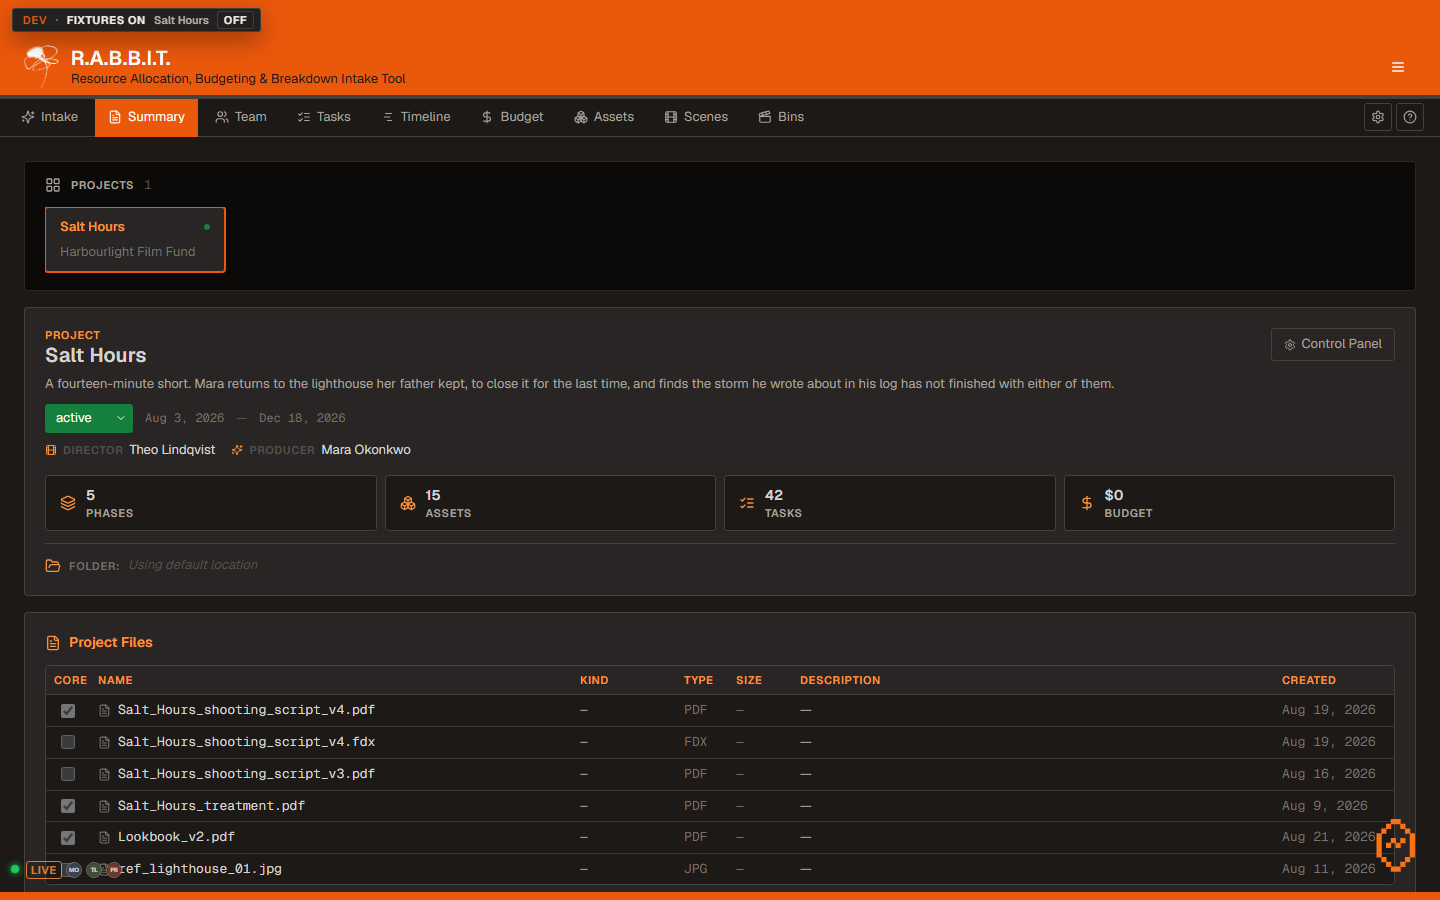
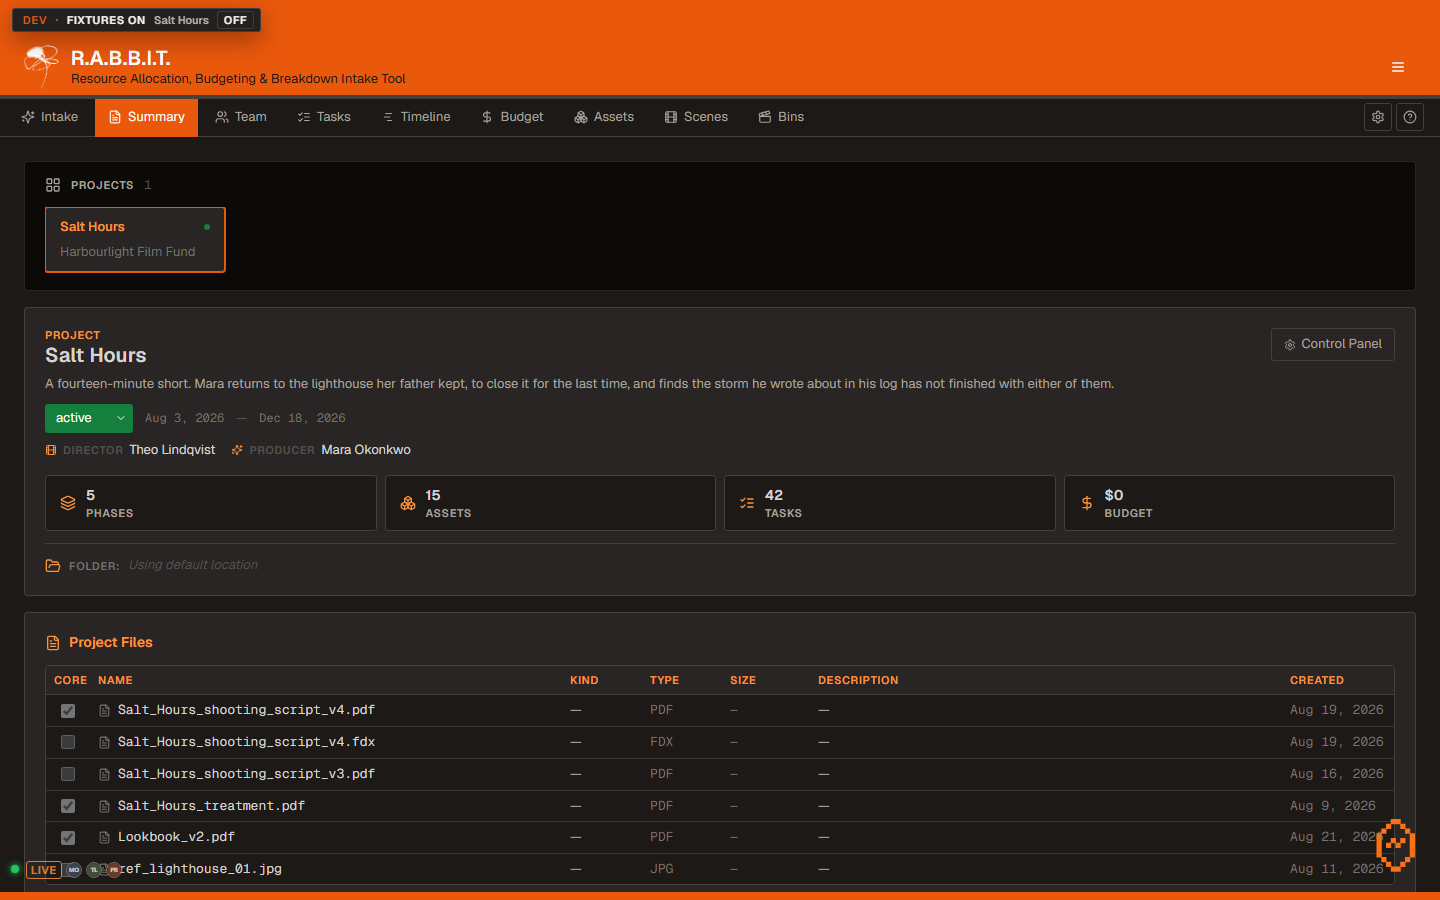
fix(t2): round two attacked round one's corrections and six of them broke
Round two re-measured every one of `ae241ed`'s 21 fixes. Seventeen findings,
four of them serious, and the pattern in all four is the same: round one
measured the FIXTURE and generalised from it.

## The four that were shipping a defect

🚨 **THE SIZE COLUMN COULD NOT RENDER A FILE SIZE, AND ROUND ONE'S OWN RULE
CONDEMNS IT.** `ae241ed` wrote "a type conversion that leaves a column unable
to render its own content is not finished" and then widened three columns and
missed a fourth that the same edit broke. `1023.9 KB` is 70.2px at 13px in the
mono against a 48px content box. It was invisible because every `size` in the
"Salt Hours" fixture is null and renders `—`. A reviewer uploaded a real 54.7
KB file and the cell reported `scrollWidth 71 > clientWidth 64` immediately.
`Type` is the same story one step milder — `MARKDOWN` and `FOUNTAIN` are both
in `ACCEPTED_EXTS` at 62.4px against a 36px box — and it was already truncating
before this session, which is precisely the standing this session gave the warm
Created column when it claimed it.

🚨 **`classifyMono` RETURNS DROP FOR TWO CELLS, NOT ONE.** Round one asked the
map per column, found Description, and stopped. Asked about all nine with their
real tag, run and body, it returns KEEP for seven and DROP for **Kind** as well
— "no data evidence", because the column's entire vocabulary is "treatment",
"lookbook", "pitch bible". Words.

🚨 **AND LEAVING KIND ON `cellClass` SPLIT ONE COLUMN BETWEEN TWO FAMILIES.**
[…]

diff --git a/WILSON/src/tools/rabbit_v0.1.0/components/ProjectFilesTable.jsx b/WILSON/src/tools/rabbit_v0.1.0/components/ProjectFilesTable.jsx
@@ -94,12 +94,12 @@ export default function ProjectFilesTable({
 
   /* ── variant-driven tokens ── */
   /* 🚨 UI overhaul, Wave 1 bundle T2 (2026-09-22). THIS FILE IS B4's (plan
-     §6.5) — it is drawn by Intake (`IntakePrepare.jsx:262`), by Summary twice
+     §6.5) — it is drawn by Intake (`IntakePrepare.jsx:277`), by Summary twice
      (`ProjectSummaryView.jsx:482` read-only and `:1163` through
      `ProjectFilesSection`) and by the Projects page's detail panel
      (`ProjectDetailPanel.jsx:335`) — and B4 converges it with the other file
-     tables onto `Table`. Wave 1's job here is the TYPE. Three column widths
-     below are NOT type and are marked where they are; each is here because
+     tables onto `Table`. Wave 1's job here is the TYPE. EIGHT column widths
+     below are NOT type and are marked where they are; each is there because
      the type change made the column unable to render its own content, and a
      conversion that leaves a column truncating is not finished.
 
@@ -123,13 +123,17 @@ export default function ProjectFilesTable({
      PER TABLE. `cellClass` carried `font-mono` for all nine cells on the
      argument that "a row is mostly figures, 4 columns to 2" — which is a hand
      aggregate the map does not compute. `classifyMono` judges ONE element's
-     body, and asked about each of the nine sites it returns KEEP for eight and
-     **DROP for the Description cell**: "renders a name or a message". That is
-     the widest column in the table and it holds user-typed prose, so the
-     mechanical reading shipped free text at 13px in Geist Mono — the exact
-     complaint §3.1 exists to fix. The Breakdown-row precedent round one wrote
-     was about ONE className governing six sibling columns; here each column
-     has its own, so each answers for itself. */
+     body, and asked about each of the nine sites with its real tag, run and
+     body it returns KEEP for seven and DROP for TWO: **Description** ("renders
+     a name or a message") and **Kind** ("no data evidence"). Those are the two
+     columns that hold words — the widest column in the table, holding
+     user-typed prose, and a column whose whole vocabulary is "treatment",
+     "lookbook", "pitch bible". The mechanical reading shipped both at 13px in
+     Geist Mono, which is the exact complaint §3.1 exists to fix.
+     The Breakdown-row precedent round one wrote was about ONE className
+     governing six sibling columns; here each column has its own, so each
+     answers for itself — and the first correction asked the map about only one
+     of the two. */
   const hdrClass = 'text-label uppercase'
   const hdr = {
     color: w ? '#3a1e08' : '#fb923c',
@@ -137,7 +141,16 @@ export default function ProjectFilesTable({
     whiteSpace: 'nowrap',
   }
   const cellClass = 'text-dense font-mono'
-  /* The one cell the mono map sends the other way. */
+  /* 🚨 TWO cells the mono map sends the other way, and the first correction
+     moved only one of them. Asked about each of the nine cells with its real
+     tag, run and body, `classifyMono` returns KEEP for seven and DROP for
+     **Kind** ("no data evidence") and **Description** ("renders a name or a
+     message"). Kind renders `f.document_kind.replace(/_/g, ' ')` — "pitch
+     bible", "treatment", "lookbook". Words.
+     Leaving Kind on `cellClass` also split one column between two faces: the
+     read-only branch inherited the mono from this wrapper while the editable
+     `<select>` below took `font-sans`, so the same string rendered in Geist on
+     Intake and in Geist Mono on Summary. */
   const proseCellClass = 'text-dense'
   /* 🚨 AND A FORM CONTROL INHERITS ITS PARENT'S FAMILY. Tailwind's preflight
      gives `select`/`input` `font: inherit`, so the two editable cells were
@@ -151,32 +164,66 @@ export default function ProjectFilesTable({
     padding: w ? '10px 14px' : '6px 8px',
     whiteSpace: 'nowrap', overflow: 'hidden', textOverflow: 'ellipsis',
   }
-  /* 🚨 THREE NUMBERS HERE ARE T2's AND THEY ARE THE ONLY NON-TYPE BYTES IN
+  /* 🚨 EIGHT NUMBERS HERE ARE T2's AND THEY ARE THE ONLY NON-TYPE BYTES IN
      THIS FILE. Taking the cells from 10px to the Dense step is what made each
-     necessary, and a type conversion that leaves a column unable to render its
-     own content is not finished.
+     necessary, and the rule is the same every time: a type conversion that
+     leaves a column unable to render its own content is not finished.
 
-       Created (dark)   80  -> 120     Kind (dark)   90 -> 104
-       Created (warm)   96  -> 120
+                    dark            warm
+       Kind         90  ->  80      100 ->  92     (it also went SANS — below)
+       Type         52  ->  80       60 ->  92
+       Size         64  ->  88       76 -> 100
+       Created      80  -> 112       96 -> 124
 
-     MEASURED in the browser, not eyeballed. Of the 230 cells the Summary tab
-     draws, exactly 32 overflowed at 80px and every one was a date —
-     `clientWidth` 80 against `scrollWidth` 110, so every row read "Aug 19,…".
-     Then a reviewer found two the first pass had not measured:
+     MEASURED in the browser at the cell's OWN family and 13px, against each
+     column's CONTENT box (its width less `cell`'s padding: 16px dark, 28px
+     warm), for the widest value the column can actually hold:
 
-       · `fmtDate` passes `undefined` as its locale, which means the BROWSER's.
-         "Aug 19, 2026" is 93.6px, but en-GB, en-AU and en-CA abbreviate
-         September as "Sept" and "Sept 19, 2026" is 101.4px — over a 112px
-         column's 96px content box. 120 clears it with room.
-       · `DOCUMENT_KINDS` contains `pitch_bible`, which renders as "pitch
-         bible": 85.8px against a 90px column's 74px content box. The fixture
-         has no such row, so nothing in the repo would have drawn it. 104.
+       Kind      `pitch bible`   61.8 sans   (85.8 in the mono — see below)
+       Type      `MARKDOWN`      62.4 mono   (ACCEPTED_EXTS has markdown, fountain)
+       Size      `1023.9 KB`     70.2 mono   (fmtBytes switches to MB above 1024 KB)
+       Created   `Sep 19, 2026`  93.6 mono   (en-*; see the locale note below)
 
-     ⚠ The WARM column moves too, and the earlier note here — "pre-existing,
-     untouched" — was wrong twice over: the warm cells kept 13px but changed
-     FAMILY in this same edit, `'ui-monospace,monospace'` -> `var(--font-mono)`,
-     which took "Aug 19, 2026" from 85.8px to 93.6px against a 68px content
-     box. The truncation got worse inside this diff, so it is this session's.
+     🚨 KIND IS 80 AND NOT 104 BECAUSE THE FAMILY DECIDES THE WIDTH. An
+     earlier pass sized it for the mono, at 104, and then moved the column to
+     the sans in the same commit — where the same string is 61.8px rather than
+     85.8. Sizing a column before settling its family books 24px of nothing.
+
+     🚨 AND IT TOOK THREE PASSES TO GET THE LIST RIGHT, WHICH IS THE LESSON.
+     The first pass measured the FIXTURE and found one broken column: of the
+     230 cells the Summary tab draws, exactly 32 overflowed and every one was a
+     date, `clientWidth` 80 against `scrollWidth` 110. "No other column
+     overflowed" was true of the fixture and false of the component — every
+     `size` in it is null and renders `—`, no row carries a `pitch_bible` kind,
+     and Intake's file list is empty, so three of the four broken columns had
+     nothing to draw. A reviewer uploaded a real 54.7 KB file and the Size cell
+     reported `scrollWidth 71 > clientWidth 64` at once.
+     Type was ALREADY truncating before this session (43.98 against a 36px box
+     at 10px) and got worse inside this diff, which is the standing this
+     session gave the warm Created column; it is widened on the same reasoning.
+
+     ⚠ THE LOCALE ARGUMENT FOR `Created` WAS WRONG AND THE NUMBER SURVIVES IT.
+     The first pass claimed en-GB, en-AU and en-CA render "Sept 19, 2026" at
+     101.4px. They do not — they put the day first, which is NARROWER, and
+     en-CA does not abbreviate "Sept" at all. What is true is that `fmtDate`
+     passes `undefined` as its locale, so it renders the BROWSER's, and the
+     en-* family is widest at 93.6px. 112 clears that with 2.4px to spare.
+     📌 Outside en-* it does not: de-DE renders `19. Sept. 2026` at 109.2px,
+     ru-RU 123.9 and pt-BR 140.4. Sizing for every locale means a column that
+     grows with its content, which is structure and is B4's.
+
+     ⚠ The WARM columns move too, and the note here once said they were
+     "pre-existing, untouched": wrong twice over. The warm cells kept 13px but
+     changed FAMILY in this same edit, `'ui-monospace,monospace'` ->
+     `var(--font-mono)`, which took "Aug 19, 2026" from 85.8px to 93.6px. The
+     truncation got worse inside this diff, so it is this session's.
+
+     VERIFIED at both window sizes on the NARROWEST of the four surfaces —
+     Intake, whose wrapper is 686px — with a 1.1 MB `.markdown` file, which is
+     the worst Kind, Type, Size and Name the component can draw at once:
+     grid `clientWidth` 686 === `scrollWidth` 686, zero cells clipped, no
+     document overflow. An earlier draft of these numbers overflowed it by
+     14px; that is what sizing a column for the wrong family costs.
 
      📌 FOR B4: `variant="warm"` has no caller. `ProjectDetailPanel` passes
      `variant="dark"` since lane C1 put that page on `paper`, and the other
@@ -184,8 +231,8 @@ export default function ProjectFilesTable({
      unreachable in the shipped tree. Kept and corrected rather than deleted,
      because deleting a variant is structure and structure is B4's. */
   const cols = w
-    ? `48px minmax(180px,1fr) 100px 60px 76px minmax(140px,1fr) 120px${onAudit ? ' 40px' : ''}${onDelete ? ' 40px' : ''}`
-    : `44px minmax(140px,1fr) 104px 52px 64px minmax(100px,1fr) 120px${onAudit ? ' 32px' : ''}${onDelete ? ' 32px' : ''}`
+    ? `48px minmax(180px,1fr) 92px 92px 100px minmax(140px,1fr) 124px${onAudit ? ' 40px' : ''}${onDelete ? ' 40px' : ''}`
+    : `44px minmax(140px,1fr) 80px 80px 88px minmax(100px,1fr) 112px${onAudit ? ' 32px' : ''}${onDelete ? ' 32px' : ''}`
 
   const mutedColor = w ? '#6b4423' : '#78716c'
   const iconSz = w ? 15 : 13
@@ -248,7 +295,7 @@ export default function ProjectFilesTable({
           {/* A control is a control: the kit rules `.ui-select` at 13/400 in
               the sans, so both arms of the size ternary below (12 warm, 10
               dark) land on Dense and the private mono stack goes. */}
-          <div className={cellClass} style={cell}>
+          <div className={proseCellClass} style={cell}>
             {canEdit ? (
               <select value={f.document_kind || ''}
                 onChange={e => onUpdate(f.id, { document_kind: e.target.value || null })}

diff --git a/WILSON/src/ui/typeScale.test.js b/WILSON/src/ui/typeScale.test.js
@@ -40,7 +40,7 @@ import { enclosingRunRaw, enclosingTag } from '../../scripts/ui-type-inventory.m
 import {
   coverage, inlineClassEvidence, valueArms, declsNearMarker, openTagOf,
   openingTagEndFromAttr, classNameRun, ownTextFrom,
-  SPELLINGS_MATCH_PROPS, INLINE_TYPE_PROPS, NOT_A_STYLE,
+  SPELLINGS_MATCH_PROPS, INLINE_TYPE_PROPS, NOT_A_STYLE, isMonoValue,
 } from '../../scripts/ui-inline-type.mjs';
 
 /* The Label step used WITHOUT `uppercase`, on purpose. Keyed on the file AND
@@ -1084,7 +1084,6 @@ const INLINE_TRACKING = /['"]?letterSpacing['"]?\s*:/g;
    converted `fontSize: ${TYPE.caption}px`. A new token with no assertion
    behind it only moves the drift somewhere quieter. */
 const INLINE_LEADING = /['"]?lineHeight['"]?\s*:/g;
-const INLINE_WEIGHT_KEY = /['"]?fontWeight['"]?\s*:/g;
 
 /* 🚨 A VALUE IS NOT `[^,;\n}]+`, AND THE ROUND-ONE FIX IS WHAT PROVED IT.
    That character class stops at the first `}` — which in this codebase is
@@ -1442,6 +1441,12 @@ describe('the inline half: every type value reads a token (T3)', () => {
     expect(fires(INLINE_CASE, 'uppercase')).toBe(false);
     expect(fires(INLINE_LEADING, 'lineHeight: 1.6')).toBe(true);
     expect(fires(INLINE_LEADING, 'leading-relaxed')).toBe(false);
+    // 🚨 `INLINE_WEIGHT` was the sixth, and it was missing: three assertions
+    // run it, and a mutant that killed it was caught only INCIDENTALLY, by the
+    // frozen-title count — which is the shape this control exists to replace.
+    expect(fires(INLINE_WEIGHT, 'fontWeight: 600')).toBe(true);
+    expect(fires(INLINE_WEIGHT, "fontWeight: 'bold'")).toBe(true);
+    expect(fires(INLINE_WEIGHT, 'font-semibold')).toBe(false);
   });
 
   it("CONTROL: the inventory's own property list cannot be pruned in silence", () => {
@@ -1531,15 +1536,44 @@ describe('the inline half: every type value reads a token (T3)', () => {
   });
 
   it("CONTROL: the inventory recognises the repo's own mono token", () => {
-    // The family test was written against `'ui-monospace,monospace'` and
-    // `DATA`, case-sensitively — and the overhaul converted those sites to
-    // `FONT_MONO`, which SHOUTS. Every site it actually converted printed no
-    // family verdict at all.
+    /* 🚨 THIS CONTROL USED TO RE-TYPE THE REGEX AS A LITERAL INSTEAD OF CALLING
+       THE CODE, which is the file's own rule 1 inside out: a reviewer reverted
+       the fix in `ui-inline-type.mjs` and all 2,910 tests stayed green while
+       the inventory printed no family verdict for any site the overhaul had
+       actually converted. The predicate is exported now and this calls it.
+       The fix it pins: the test was written against `'ui-monospace,monospace'`
+       and `DATA`, case-sensitively, and could not see `FONT_MONO` — the token
+       everything was converted TO, which SHOUTS. */
     for (const v of ["'ui-monospace,monospace'", 'FONT_MONO', 'DATA', "'monospace'"]) {
-      expect(/mono|\bDATA\b/i.test(v), `${v} is a mono value`).toBe(true);
+      expect(isMonoValue(v), `${v} is a mono value`).toBe(true);
     }
-    for (const v of ['SANS', 'FONT_SANS', "'var(--font-sans)'"]) {
-      expect(/mono|\bDATA\b/i.test(v), `${v} is not`).toBe(false);
+    for (const v of ['SANS', 'FONT_SANS', "'var(--font-sans)'", "'Geist'"]) {
+      expect(isMonoValue(v), `${v} is not`).toBe(false);
+    }
+  });
+
+  it('CONTROL: the arm splitter finds a ternary wherever it is hiding', () => {
+    /* 🚨 NOTHING TESTED THIS, AND IT WAS WRONG THREE WAYS. `valueArms` is what
+       lets the token and floor assertions ask each rendered value separately,
+       and a reviewer showed that (a) a LEFT-nested ternary reported its own
+       condition as a value, (b) a ternary inside a template literal was never
+       split at all, because `isConditional` strips backtick-quoted text before
+       looking for a `?`, and (c) a bracketed arm came back opaque. (b) and (c)
+       both laundered a 9px arm straight past the 11px floor — the assertion
+       that exists as the independent backstop for an allowlisted site. */
+    expect(valueArms('a ? b : c ? d : e')).toEqual(['b', 'd', 'e']);      // right-nested
+    expect(valueArms('a ? b ? c : d : e')).toEqual(['c', 'd', 'e']);      // LEFT-nested
+    expect(valueArms('`${w ? TYPE.h2 : 9}px`')).toEqual(['TYPE.h2', '9']);
+    expect(valueArms('(b ? TYPE.h2 : 9)')).toEqual(['TYPE.h2', '9']);
+    expect(valueArms('b ? (c ? TYPE.h1 : 9) : TYPE.label'))
+      .toEqual(['TYPE.h1', '9', 'TYPE.label']);
+    // A condition is never a value, and a call is not a ternary.
+    expect(valueArms('size >= 40 ? TYPE.h2 : TYPE.label')).toEqual(['TYPE.h2', 'TYPE.label']);
+    expect(valueArms('Math.max(8, size * 0.38)')).toEqual(['Math.max(8, size * 0.38)']);
+    // …and each of those hiding places reaches the floor assertion.
+    for (const v of ['`${w ? TYPE.h2 : 9}px`', '(b ? TYPE.h2 : 9)',
+      'b ? (c ? TYPE.h1 : 9) : TYPE.label']) {
+      expect(valueArms(v).some(belowFloorArm), `${v} hides a 9`).toBe(true);
     }
   });
 

diff --git a/WILSON/src/tools/rabbit_v0.1.0/views/intake/IntakePrepare.jsx b/WILSON/src/tools/rabbit_v0.1.0/views/intake/IntakePrepare.jsx
@@ -201,17 +201,27 @@ export default function IntakePrepare({
               <span className="text-body" style={{ color: '#a8a29e' }}>
                 {dragging ? 'Drop to add' : 'Drop files or click to browse'}
               </span>
-              {/* 🚨 CAPTION, AND THE MAP ONLY SAID DENSE BY ACCIDENT. Below
-                  12.5px the map promotes to Caption on a muted ink, and
-                  `META_INK` lists the three the F1 ladder replaces —
-                  `#78716c`, `#8d8986`, `#57534e`. This hint is `#44403c`,
-                  which is not an INK at all: it is the old border grey, and
-                  the ladder has not reached it. So the promotion failed on a
-                  colour rather than on a role, and the CTA above and its hint
-                  came out 14px over 13px — one step apart, with nothing but a
-                  very dim pair of greys between them. Caption restores the
-                  two-step gap the pair had before. §3.2's ink is B1's; the
-                  step is Wave 1's, and this is the step. */}
+              {/* 🚨 CAPTION, AND THE REASON IS THE PAIR RATHER THAN THE INK.
+                  The map put this on Dense, which left the drop zone's call to
+                  action at 14px directly over its hint at 13 — one step apart,
+                  same family, separated by nothing but a very dim pair of
+                  greys. Caption restores the two-step gap the pair had before.
+
+                  An earlier draft argued it from the INK: below 12.5px the map
+                  promotes to Caption on a muted ink, `META_INK` lists the three
+                  the F1 ladder replaces (`#78716c`, `#8d8986`, `#57534e`), and
+                  this is `#44403c` — not an ink at all, but the old border
+                  grey, which the ladder has not reached. True, and it does not
+                  stop here: a reviewer found three sibling `#44403c` sites in
+                  this same file. Two of them are `<p>` (`:343`, `:354`) and are
+                  Dense by a rule that OUTRANKS the ink — T0's `DENSE_TAGS`
+                  fires before `META_INK`, because a prose tag says what the
+                  content IS. The third (`:294`, "No files uploaded yet") is an
+                  empty state, not a hint, and §3.1 gives Caption "metadata,
+                  hints, counts, timestamps".
+                  So the ink observation is real but it is not the argument.
+                  The argument is that a CTA and its own hint may not be one
+                  step apart, and that does not generalise past this pair. */}
               <span className="text-caption" style={{ color: '#44403c' }}>
                 {[...ACCEPTED_EXTS].join('  ·  ')}
               </span>

diff --git a/WILSON/src/tools/rabbit_v0.1.0/views/TimelineView.jsx b/WILSON/src/tools/rabbit_v0.1.0/views/TimelineView.jsx
@@ -3817,15 +3817,21 @@ function DetailBar({
                             subgroup `top: 4 / height: rowPx - 8` (:3782)
 
            ⚠ A FIFTH CHANNEL WAS CLAIMED HERE AND IT DOES NOT HOLD IN THE
-           DEFAULT CASE. `barTone` (:5790 — an earlier draft of this comment
-           cited :5762, which is a blank line inside another function's header)
-           does branch on `subgroupStyle` first, but its two fall-through arms
-           are byte-identical: a subgroup with an unrecognised status and a
-           phase with the default `not_started` both return
-           `{ bg:'#1c1917', border:'#78716c', fg:'#d6d3d1' }`. The palette
-           separates them only once a status is set. A reviewer measured that;
-           the claim is corrected rather than dropped, because the four above
-           were verified and stand.
+           DEFAULT CASE, AND THE LINE NUMBER TOOK THREE GOES. `barTone` is at
+           :5808 — an earlier draft of this comment cited :5762, a blank line
+           inside another function's header, and its correction cited :5790,
+           which is a comment line inside `lifecycleState`. It does branch on
+           `subgroupStyle` first, but two of its arms are byte-identical: a
+           subgroup with an UNRECOGNISED status string (:5820) and a phase with
+           the default `not_started` (:5835) both return
+           `{ bg:'#1c1917', border:'#78716c', fg:'#d6d3d1' }`.
+           ⚠ That is the only collision, and an earlier draft generalised it
+           into "the palette separates them only once a status is set", which
+           is backwards: a subgroup with NO status falls through to the
+           date-based ladder at :5823, and all three of its outcomes differ
+           from the phase default on at least the foreground. So the palette
+           does separate them in the common case; it collides in one narrow
+           combination. The four channels above were verified and stand.
 
            The dashed border alone reads at a glance. So what the old capitals
            and wide tracking added was a FIFTH signal, not the only one, and

diff --git a/WILSON/src/tools/rabbit_v0.1.0/views/TeamView.jsx b/WILSON/src/tools/rabbit_v0.1.0/views/TeamView.jsx
@@ -1076,7 +1076,8 @@ function MemberAvatar({ member, size = 24 }) {
        circle's INSCRIBED width at 24px. 12px caps are ~8.6px tall, so at the
        cap line a 24px circle offers about 22.4px, and WW is 23.67 at Caption
        and 23.02 even at Label. The chip wants to be 28px, not the type to be
-       smaller; both call sites at `:324` and `:770` pass 24. */
+       smaller. Two of the four call sites already are 28 — `:805` and `:988`
+       — and it is `:324` and `:770` that pass 24. */
     <div
       className="flex items-center justify-center rounded-full flex-shrink-0 text-caption font-semibold"
       style={{
